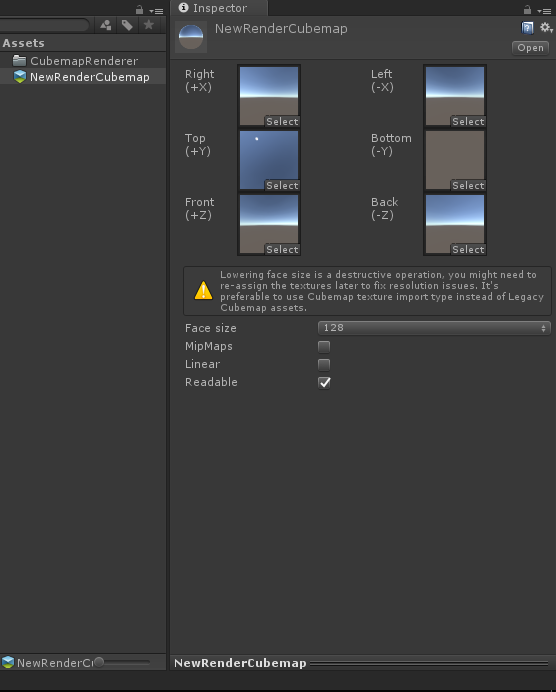
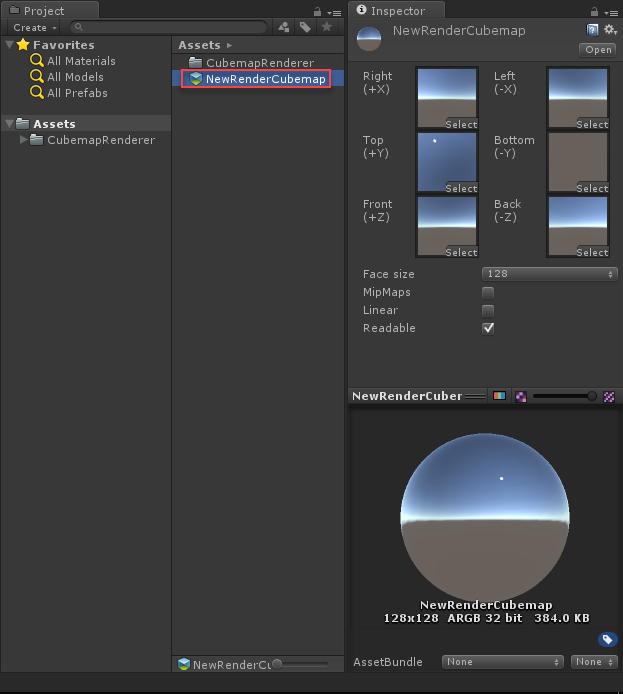
Update Attachments.

diff --git a/Assets/CubemapRenderer/Editor/CubemapRenderer.cs b/Assets/CubemapRenderer/Editor/CubemapRenderer.cs
@@ -17,22 +17,22 @@
  *     1.     Mogoson     8/31/2017       0.1.0        Create this file.
  *************************************************************************/
 
+using UnityEditor;
+using UnityEngine;
+
 namespace Developer.CubemapRenderer
 {
-    using UnityEditor;
-    using UnityEngine;
-
     public class CubemapRenderer : ScriptableWizard
     {
         #region Property and Field
         [Tooltip("Source camera to render Cubemap.")]
         public Camera renderCamera;
-        
+
         [Tooltip("Width and height of a cube face in pixels.")]
         public int faceSize = 128;
 
         [Tooltip("Pixel data format to be used for the Cubemap.")]
-        public TextureFormat textureFormat = TextureFormat.RGBA32;
+        public TextureFormat textureFormat = TextureFormat.ARGB32;
 
         [Tooltip("Should mipmaps be created?")]
         public bool mipmap = false;
@@ -62,8 +62,8 @@ namespace Developer.CubemapRenderer
         {
             var newRenderCubemap = new Cubemap(faceSize, textureFormat, mipmap);
             renderCamera.RenderToCubemap(newRenderCubemap);
-            var newCubemapPath = EditorUtility.SaveFilePanelInProject("Save New Render Cubemap", "NewRenderCubemap", "cubemap",
-                "Enter a file name to save the new render cubemap.");
+            var newCubemapPath = EditorUtility.SaveFilePanelInProject("Save New Render Cubemap",
+                "NewRenderCubemap", "cubemap", "Enter a file name to save the new render cubemap.");
             if (newCubemapPath == string.Empty)
                 return;
             AssetDatabase.CreateAsset(newRenderCubemap, newCubemapPath);
